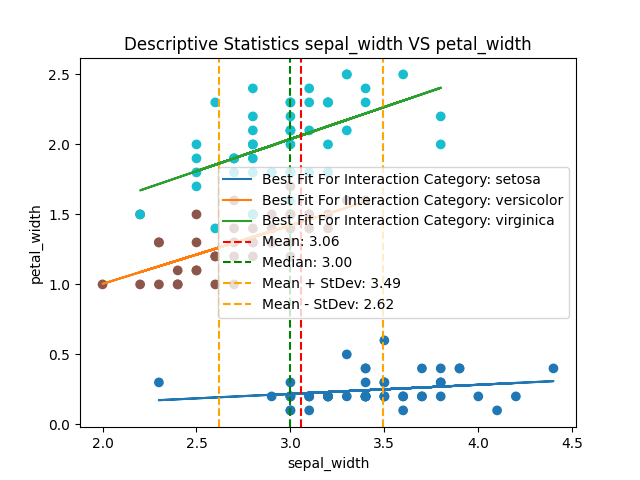
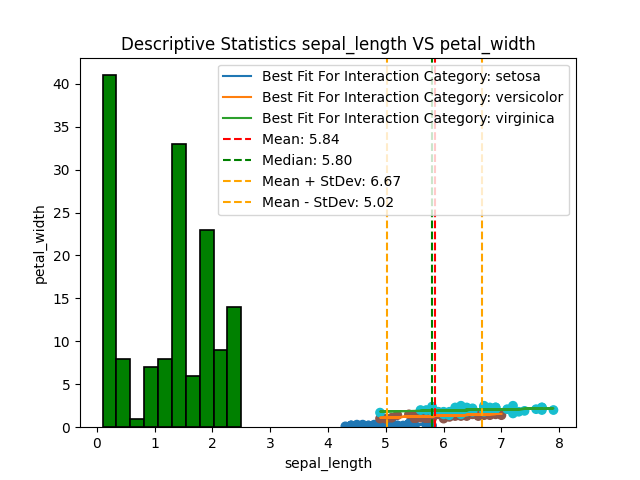
test

diff --git a/src/script_descriptive_stats.py b/src/script_descriptive_stats.py
@@ -1,7 +1,10 @@
-"""Script to run descriptive statistics on the iris dataset, 
+"""Script to run descriptive statistics on the iris dataset,
 using common fucntions from lib.py"""
+import sys
 import pandas as pd
 import lib
+
+sys.path.append('../src')
 
 def run_descriptive_stats(data_: pd.DataFrame, target_column: str) -> dict:
     "Runs descriptive statistics on the passed dataset"

diff --git a/output/generated_report.md b/output/generated_report.md
@@ -1,10 +1,10 @@
-Mean: 3.057 
+Mean: 5.843 
  
  
-Median: 3.0 
+Median: 5.8 
  
  
-Standard Deviation: 0.436 
+Standard Deviation: 0.828 
  
  
 
